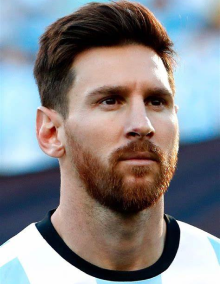
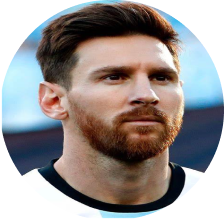
Styles : add styling to web app

diff --git a/src/app/globals.css b/src/app/globals.css
@@ -1,107 +1,97 @@
-:root {
-  --max-width: 1100px;
-  --border-radius: 12px;
-  --font-mono: ui-monospace, Menlo, Monaco, 'Cascadia Mono', 'Segoe UI Mono',
-    'Roboto Mono', 'Oxygen Mono', 'Ubuntu Monospace', 'Source Code Pro',
-    'Fira Mono', 'Droid Sans Mono', 'Courier New', monospace;
-
-  --foreground-rgb: 0, 0, 0;
-  --background-start-rgb: 214, 219, 220;
-  --background-end-rgb: 255, 255, 255;
-
-  --primary-glow: conic-gradient(
-    from 180deg at 50% 50%,
-    #16abff33 0deg,
-    #0885ff33 55deg,
-    #54d6ff33 120deg,
-    #0071ff33 160deg,
-    transparent 360deg
-  );
-  --secondary-glow: radial-gradient(
-    rgba(255, 255, 255, 1),
-    rgba(255, 255, 255, 0)
-  );
-
-  --tile-start-rgb: 239, 245, 249;
-  --tile-end-rgb: 228, 232, 233;
-  --tile-border: conic-gradient(
-    #00000080,
-    #00000040,
-    #00000030,
-    #00000020,
-    #00000010,
-    #00000010,
-    #00000080
-  );
-
-  --callout-rgb: 238, 240, 241;
-  --callout-border-rgb: 172, 175, 176;
-  --card-rgb: 180, 185, 188;
-  --card-border-rgb: 131, 134, 135;
-}
-
-@media (prefers-color-scheme: dark) {
-  :root {
-    --foreground-rgb: 255, 255, 255;
-    --background-start-rgb: 0, 0, 0;
-    --background-end-rgb: 0, 0, 0;
-
-    --primary-glow: radial-gradient(rgba(1, 65, 255, 0.4), rgba(1, 65, 255, 0));
-    --secondary-glow: linear-gradient(
-      to bottom right,
-      rgba(1, 65, 255, 0),
-      rgba(1, 65, 255, 0),
-      rgba(1, 65, 255, 0.3)
-    );
-
-    --tile-start-rgb: 2, 13, 46;
-    --tile-end-rgb: 2, 5, 19;
-    --tile-border: conic-gradient(
-      #ffffff80,
-      #ffffff40,
-      #ffffff30,
-      #ffffff20,
-      #ffffff10,
-      #ffffff10,
-      #ffffff80
-    );
-
-    --callout-rgb: 20, 20, 20;
-    --callout-border-rgb: 108, 108, 108;
-    --card-rgb: 100, 100, 100;
-    --card-border-rgb: 200, 200, 200;
-  }
-}
-
-* {
-  box-sizing: border-box;
+@import url('https://fonts.googleapis.com/css2?family=Plus+Jakarta+Sans:wght@300;400;700&display=swap');
+*{
   padding: 0;
   margin: 0;
-}
-
-html,
-body {
-  max-width: 100vw;
-  overflow-x: hidden;
-}
-
-body {
-  color: rgb(var(--foreground-rgb));
-  background: linear-gradient(
-      to bottom,
-      transparent,
-      rgb(var(--background-end-rgb))
-    )
-    rgb(var(--background-start-rgb));
-}
-
-a {
-  color: inherit;
+  box-sizing: border-box;
   text-decoration: none;
 }
 
-@media (prefers-color-scheme: dark) {
-  html {
-    color-scheme: dark;
-  }
+/* Pilih Font */
+h1, p{
+  color: #1E1E1E;
+  font-family: Plus Jakarta Sans;
+}
+
+/* Nama*/
+h1{
+  font-weight: 700;
+  font-size: 24px;
+  line-height: normal;
+}
+
+/* NIM dan BIO*/
+p{
+  font-weight: 400;
+  font-size: 16px;
+  line-height: normal;
+}
+
+/* Profile Picture*/
+.profile-header-banner{
+  width: 120px;
+  height: 120px;
+  
+  position: relative;
+}
+
+/* Body website */
+.body{
+  background-color: #F4F4F4;
+
+  /* Fill Container di Figma == 100% di JS*/
+  width: 100vw; 
+  height: 100vh;
+
+  /* Arah Flex */
+  display: flex;
+  flex-direction: column;
+
+  /* Kasih ke tengah flex */
+  align-items: center;
+  justify-content: center;
+}
+
+/* Container */
+.banner-container{
+  display: flex;
+  width: 442px;
+  padding: 24px;
+  flex-direction: column;
+  align-items: flex-start;
+  gap: 10px;
+  flex-shrink: 0;
+  background-color: white;
+  border-radius: 24px;
+}
+/* Header Container */
+.header-banner-wrapper{
+  display: flex;
+  align-items: center;
+  gap: 32px;
+}
+/* Content Container */
+.content-header-banner{
+  display: flex;
+  flex-direction: column;
+  align-items: flex-start;
+  gap: 4px;
+}
+/*CTA*/
+.cta-banner-wrapper{
+  width: 100%;
+}
+.cta-button{
+  display: flex;
+  padding: 10px 177px;
+  justify-content: center;
+  align-items: center;
+  gap: 10px;
+  align-self: stretch;
+
+  border-radius: 12px;
+  background: #A5EBFE;
+
+}
+.cta-button p{
+  font-weight: 700;
 }

diff --git a/src/app/page.js b/src/app/page.js
@@ -1,7 +1,8 @@
 import Image from 'next/image'
+import './globals.css'
 export default function Home() {
   return (
-    <div>
+    <div className='body'>
       <div className="banner-container">
         {/* Kartunya */}
         <div className="header-banner-wrapper">
@@ -9,10 +10,10 @@ export default function Home() {
           <div className="profile-header-banner">
             {/* Foto Profil*/}
             <Image
-              src="/Asets/fotomessi.png"
-              width={600}
-              height={500}
+              src="/assets/fotomessi.png"
               alt="Picture of the author"
+              fill
+              objectFit='contain'
             />
           </div>
           <div className="content-header-banner">
@@ -21,15 +22,18 @@ export default function Home() {
             <div className="bio-nim-header-banner">
             {/* NIM dan BIO*/}
             <p>D121211033</p>
-            <p>8 Ballon D'or Winners</p>
+            <p>8 ballon D'or winners</p>
             </div>
           </div>
         </div>
         <div className="cta-banner-wrapper">
           {/* Tombol CTA */}
-          <button>
-            Halo!
-          </button>
+          <a href=''>
+            <div className='cta-button'>
+              <p>Halo!</p>
+            </div>
+          </a>
+          
         </div>
       </div>
     </div>
